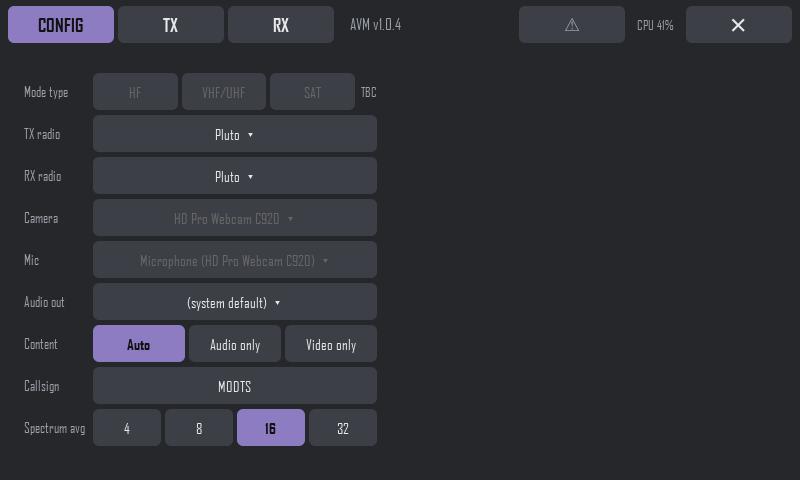
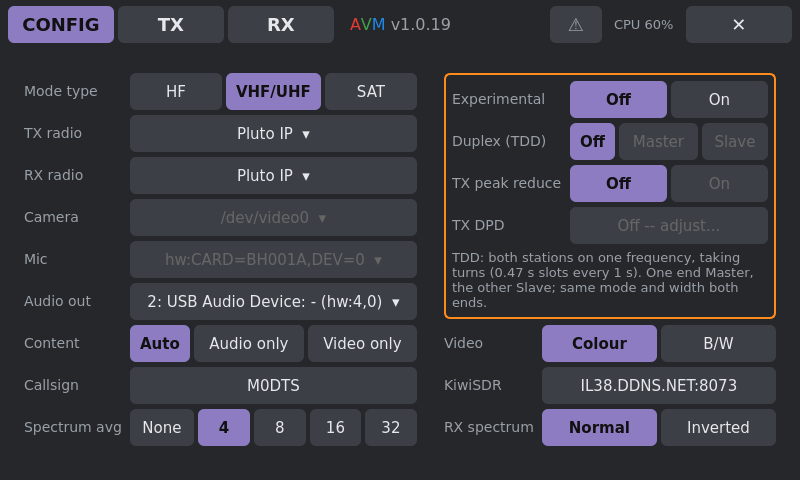
README: new screenshots, current settings described, install section first

diff --git a/README.md b/README.md
@@ -56,157 +56,6 @@ with LNB drift), but it isn't what it's designed for. That said, we're radio
 amateurs and we're allowed to experiment! A single-carrier satellite mode
 may be added later.
 
-## The screens
-
-The tabs along the top switch between **CONFIG**, **TX** and **RX**. TX and
-RX both run at once; the tabs only change what you see. The title bar also
-shows the version, the ⚠ errors list, CPU use and **✕** to quit.
-
-### Config
-
-![AVM config page](docs/config.png)
-
-The set-up choices, which rarely change once a station is running:
-
-1. **Mode type:** HF, VHF/UHF or SAT. Not available yet (TBC).
-2. **TX radio:** Pluto or LimeSDR. A LimeSDR also gets an antenna-port button
-   (Auto, BAND1 or BAND2); on a LimeSDR Mini, try the other band if there's
-   no RF output.
-3. **RX radio:** Pluto, LimeSDR, RTL-SDR, Airspy or SDRplay, from the radios connected now. A
-   Pluto shows how it's connected (**USB** or **IP**), and AVM uses the one
-   you pick. An RTL-SDR also gets a **PPM** setting to correct its crystal,
-   and a LimeSDR a port button (Auto, LNAL, LNAW or LNAH).
-4. **Camera** and **Mic:** the capture devices (when TX's source is "Camera +
-   mic").
-5. **Audio out:** where received audio plays.
-6. **Content:** what TX sends. **Auto** sends video whenever the link has room
-   for it, otherwise audio only; **Audio only** and **Video only** force it.
-7. **Callsign:** your callsign or a short message, sent with the picture.
-8. **Spectrum avg:** how many measurements the RX spectrum averages (4, 8,
-   16 or 32): higher is smoother, lower reacts faster. Applies live.
-
-Changing any of these except Spectrum avg while transmitting or receiving
-turns that tab's button to **RESTART TO APPLY**. Settings are saved as you
-go.
-
-### Transmit
-
-![AVM transmit page](docs/tx.png)
-
-1. **Preview:** exactly what's being sent (here the built-in test pattern).
-   The first start on a new machine shows "Preparing video codec..." here
-   instead, while the codec compiles.
-2. **Rates:** video and audio bitrates, the link capacity, resolution and
-   frame rate, the radio, and fragments sent.
-3. **Source and resolution:** camera and mic, or the test pattern. Video sizes
-   go from 192×112 up to 384×224.
-4. **Audio:** Codec2 (3.2 kbps, leaves more room for video) or Opus (better
-   quality).
-5. **FPS:** video frame rate.
-6. **Freq:** the transmit frequency.
-7. **TX gain:** output level. It changes live while on air.
-8. **Mode, kHz and Modul.:** how the signal is built. A–D are robust
-   DRM-style modes, and VU is for VHF/UHF mobile and tropo. Widths go from
-   20 to 250 kHz, with QPSK (robust) or 16QAM (faster). Narrow widths that a
-   mode can't use are greyed out.
-9. **TX button:** start and stop transmitting. It checks the radio is
-   connected first, and shows **RESTART TO APPLY** if you change a setting
-   that needs a restart.
-
-### Receive
-
-![AVM receive page](docs/rx.png)
-
-1. **Station:** the received callsign or message. It's shown with \*stars\*
-   until it has been received intact.
-2. **Video:** the received picture; tap it for full screen. A receiver
-   tuning in mid-transmission sees the picture fill in as a mosaic within a
-   few seconds.
-3. **Lock lamps and status line:**
-   - **Header** and **Frame** lamps, over the last 2 seconds: **green** when
-     every fragment's header (or whole frame) decoded, **orange** when some
-     did, **red** when none did.
-   - **MER:** signal quality in dB; higher is better.
-   - **CFO:** how far the transmitter is off frequency.
-   - **fps:** received frame rate.
-   - **Q:** video frames queued for display.
-4. **Spectrum:** the live received band. Here it's a real mode VU, 80 kHz
-   signal. The small notch in the middle is deliberate (an empty centre
-   carrier), and it's handy for tuning. The **tuning indicator** behind the
-   trace shows where the signal should sit for the selected mode and width:
-   - **light blue band:** the signal's width, with a dashed centre line;
-   - **green zones at each edge:** how far the signal can drift (the
-     frequency-offset pull-in) and still lock without losing sensitivity.
-     Tune so the signal's edges sit inside them.
-5. **Freq and Offset:** the receive frequency, and a **−/+ offset** in 1 kHz
-   steps (±100 kHz). The offset applies live, to pull an off-frequency
-   signal (e.g. a drifting LNB on a satellite path) back into the green
-   zones.
-6. **Mode, kHz and Modul.:** these must match the transmitter.
-7. **RX gain:** changes live.
-8. **Ref level:** the spectrum's top line, or **Auto**.
-9. **RX button:** start and stop receiving. It checks the radio is
-   connected first, and says so if it isn't.
-
-## How it works
-
-```
-camera ─► wavelet video codec ─┐                                  ┌─► video decoder ─► screen
-                               ├─► framer ─► OFDM modem ─► SDR ~~► SDR ─► OFDM demodulator ─► deframer ─┤
-mic ────► Opus / Codec2 ───────┘   (callsign, A/V sync)                                  └─► audio decoder ─► speaker
-```
-
-- **OFDM modem:** many closely spaced carriers, with pilots for tracking,
-  LDPC error correction, and a preamble so a receiver can lock on at any
-  time. Its timings are modelled on DRM's robustness modes, plus the
-  VHF/UHF mode VU.
-- **Video codec:** a wavelet codec written for AVM. It produces a fixed
-  number of bytes per frame, so it fits the radio's capacity exactly, and it
-  gets blurrier, not blocky, as the rate drops. A rolling refresh lets late
-  joiners and lost data recover within a few seconds.
-- **Receiver:** plays video and audio in step, at low latency. It skips ahead
-  instead of falling behind if it's ever delayed.
-
-## What you need
-
-- **A computer:** see [Computers](#computers) below.
-- **A radio (SDR):** see [Radios](#radios) below. Add filters and an
-  amplifier as needed for your band.
-- **A camera and microphone:** any USB webcam works (e.g. a Logitech C920,
-  whose focus AVM can control). The test pattern needs no camera.
-- **A licence to transmit:** see the note under [Use](#use).
-
-## Supported hardware
-
-AVM is an experimental release: "tested" below means it has been used with
-AVM, not that every setting has been tried on it.
-
-### Computers
-
-| Computer | Notes |
-|---|---|
-| **Raspberry Pi 4** with 64-bit Raspberry Pi OS (Trixie, desktop) | What AVM is developed and tested on. Best with the 7" touch screen. |
-
-### Radios
-
-| Radio | TX | RX | Tuning range | Status | Notes |
-|---|:-:|:-:|---|---|---|
-| **ADALM-Pluto** | ✓ | ✓ | 70-6000 MHz* | Tested | TX and RX at once from one Pluto. On USB, or on the network at 192.168.2.1 / pluto.local. |
-| **LibreSDR** (and other boards running Pluto firmware) | ✓ | ✓ | 70-6000 MHz | Untested | Works as a Pluto. On Ethernet, AVM checks both 192.168.2.1 and 192.168.1.10 (LibreSDR's default) and uses whichever answers. |
-| **LimeSDR-USB / LimeSDR Mini** | ✓ | ✓ | 0.1-3800 MHz | Tested | TX **or** RX, not both at once from one Lime (it can only be opened by one program). To do both, add a second radio for RX, e.g. an RTL-SDR. AVM says "LimeSDR busy" otherwise. Antenna port selectable. |
-| **RTL-SDR dongle** (RTL2832U + R820T) | | ✓ | 24-1766 MHz | Tested | Cheap RX. PPM setting to correct its crystal. |
-| **Airspy R2 / Mini** | | ✓ | 24-1800 MHz | Found by AVM, receive not yet tested | Samples at 2.5 MS/s (R2) or 3 MS/s (Mini): more CPU on a Pi than an RTL-SDR. |
-| **Airspy HF+ Discovery / Dual** | | ✓ | 0.01-31 and 60-260 MHz | Untested | Runs its own AGC: AVM's RX gain setting doesn't apply. |
-| **SDRplay RSP1, RSP1A, RSP1B, RSP2, RSPduo, RSPdx, RSPdx-R2** | | ✓ | 0.001-2000 MHz | RSPduo found and opened by AVM, receive not yet tested | Needs SDRplay's API, which you download yourself: see [SDRplay RSPs](#sdrplay-rsps). Runs its own AGC. RSPduo used as a single tuner. |
-
-\* 70-6000 MHz with the common Pluto firmware change; a stock Pluto covers
-325-3800 MHz.
-
-Radios are listed in AVM by what's plugged in now; a radio that isn't
-connected isn't offered. AVM checks the chosen radio is there before TX or RX
-starts, and pauses TX/RX if a USB radio disappears, carrying on when it's
-back.
-
 ## Install
 
 AVM runs on a **Raspberry Pi 4**. If you already have a Portsdown DATV
@@ -320,6 +169,177 @@ when the file is newer than what's installed, and rebuilds the driver.
   RSP. If not, check SDRplay's service is running with
   `systemctl status sdrplay`, and restart it with
   `sudo systemctl restart sdrplay`.
+
+## The screens
+
+The tabs along the top switch between **CONFIG**, **TX** and **RX**. TX and
+RX both run at once; the tabs only change what you see. The title bar also
+shows the version, the ⚠ errors list, CPU use and **✕** to quit.
+
+### Config
+
+![AVM config page](docs/config.png)
+
+The set-up choices, which rarely change once a station is running:
+
+1. **Mode type:** HF, VHF/UHF or SAT. This picks which modes, widths and
+   modulations the TX and RX pages offer, and hides the rest:
+   - **HF:** modes A–D and SH, 10 to 40 kHz;
+   - **VHF/UHF:** mode VU, 80 to 250 kHz;
+   - **SAT:** mode S, 10 to 40 kHz.
+2. **TX radio:** Pluto or LimeSDR. A LimeSDR also gets an antenna-port button
+   (Auto, BAND1 or BAND2); on a LimeSDR Mini, try the other band if there's
+   no RF output.
+3. **RX radio:** Pluto, LimeSDR, RTL-SDR, Airspy, SDRplay or a KiwiSDR on
+   the internet, from the radios connected now. A
+   Pluto shows how it's connected (**USB** or **IP**), and AVM uses the one
+   you pick. An RTL-SDR also gets a **PPM** setting to correct its crystal,
+   and a LimeSDR a port button (Auto, LNAL, LNAW or LNAH).
+4. **Camera** and **Mic:** the capture devices (when TX's source is "Camera +
+   mic").
+5. **Audio out:** where received audio plays.
+6. **Content:** what TX sends. **Auto** sends video whenever the link has room
+   for it, otherwise audio only; **Audio only** and **Video only** force it.
+7. **Callsign:** your callsign or a short message, sent with the picture.
+8. **Spectrum avg:** how many measurements the RX spectrum averages (none,
+   4, 8, 16 or 32): higher is smoother, lower reacts faster. Applies live.
+9. **Experimental** (orange box): off by default. Turning it on unlocks
+   **TX peak reduce** and **TX DPD** (predistortion, to clean up an
+   amplifier's splatter, set in its own popup). Both can badly distort your
+   signal if set wrong, so only use them when you can watch your
+   transmission on another receiver.
+10. **Video:** send in colour, or black and white, which leaves the
+    bits for a little more picture detail.
+11. **KiwiSDR:** the address of the KiwiSDR to receive with, when it's the
+    RX radio.
+12. **RX spectrum:** **Inverted** if your receive chain flips the spectrum
+    (e.g. some converters).
+
+Changing any of these except Spectrum avg while transmitting or receiving
+turns that tab's button to **RESTART TO APPLY**. Settings are saved as you
+go.
+
+### Transmit
+
+![AVM transmit page](docs/tx.png)
+
+1. **Preview:** exactly what's being sent (here the built-in test pattern).
+   The first start on a new machine shows "Preparing video codec..." here
+   instead, while the codec compiles.
+2. **Rates:** video and audio bitrates, the link capacity, resolution and
+   frame rate, the radio, and fragments sent.
+3. **Source and resolution:** camera and mic, or the test pattern. Video sizes
+   go from 192×112 up to 384×224.
+4. **Audio:** Codec2 (3.2 kbps, leaves more room for video) or Opus (better
+   quality).
+5. **FPS:** video frame rate.
+6. **Freq:** the transmit frequency.
+7. **TX gain:** output level. It changes live while on air.
+8. **Mode, kHz and Modul.:** how the signal is built; the choices depend on
+   the mode type set in Config.
+   - **A–D** are robust DRM-style modes for HF, **SH** is a single-carrier
+     mode for HF, **VU** is for VHF/UHF mobile and tropo, and **S** is a
+     single-carrier mode for satellite and other steady paths.
+   - Widths go from 10 to 250 kHz.
+   - Modulation: QPSK (most robust), 8PSK (S and SH only), 16QAM or 32QAM
+     (fastest, needs the strongest signal).
+   - Choices a mode can't use are greyed out.
+9. **TX button:** start and stop transmitting. It checks the radio is
+   connected first, and shows **RESTART TO APPLY** if you change a setting
+   that needs a restart.
+
+### Receive
+
+![AVM receive page](docs/rx.png)
+
+1. **Station:** the received callsign or message. It's shown with \*stars\*
+   until it has been received intact.
+2. **Video:** the received picture; tap it for full screen. A receiver
+   tuning in mid-transmission sees the picture fill in as a mosaic within a
+   few seconds.
+3. **Lock lamps and status line:**
+   - **Header** and **Frame** lamps, over the last 2 seconds: **green** when
+     every fragment's header (or whole frame) decoded, **orange** when some
+     did, **red** when none did.
+   - **MER:** signal quality in dB; higher is better.
+   - **CFO:** how far the transmitter is off frequency.
+   - **fps:** received frame rate.
+   - **Q:** video frames queued for display.
+4. **Spectrum:** the live received band. Here it's a real mode VU, 80 kHz
+   signal. The **tuning indicator** behind the
+   trace shows where the signal should sit for the selected mode and width:
+   - **light blue band:** the signal's width, with a dashed centre line;
+   - **green zones at each edge:** how far the signal can drift (the
+     frequency-offset pull-in) and still lock without losing sensitivity.
+     Tune so the signal's edges sit inside them.
+5. **Freq and Offset:** the receive frequency, and a **−/+ offset** in 1 kHz
+   steps (±100 kHz). The offset applies live, to pull an off-frequency
+   signal (e.g. a drifting LNB on a satellite path) back into the green
+   zones.
+6. **Mode, kHz and Modul.:** these must match the transmitter.
+7. **RX gain:** changes live.
+8. **Ref level:** the spectrum's top line, or **Auto**.
+9. **RX button:** start and stop receiving. It checks the radio is
+   connected first, and says so if it isn't.
+
+## How it works
+
+```
+camera ─► wavelet video codec ─┐                                  ┌─► video decoder ─► screen
+                               ├─► framer ─► OFDM modem ─► SDR ~~► SDR ─► OFDM demodulator ─► deframer ─┤
+mic ────► Opus / Codec2 ───────┘   (callsign, A/V sync)                                  └─► audio decoder ─► speaker
+```
+
+- **OFDM modem:** many closely spaced carriers, with pilots for tracking,
+  LDPC error correction, and a preamble so a receiver can lock on at any
+  time. Its timings are modelled on DRM's robustness modes, plus the
+  VHF/UHF mode VU.
+- **Video codec:** a wavelet codec written for AVM. It produces a fixed
+  number of bytes per frame, so it fits the radio's capacity exactly, and it
+  gets blurrier, not blocky, as the rate drops. A rolling refresh lets late
+  joiners and lost data recover within a few seconds.
+- **Receiver:** plays video and audio in step, at low latency. It skips ahead
+  instead of falling behind if it's ever delayed.
+
+## What you need
+
+- **A computer:** see [Computers](#computers) below.
+- **A radio (SDR):** see [Radios](#radios) below. Add filters and an
+  amplifier as needed for your band.
+- **A camera and microphone:** any USB webcam works (e.g. a Logitech C920,
+  whose focus AVM can control). The test pattern needs no camera.
+- **A licence to transmit:** see the note under [Use](#use).
+
+## Supported hardware
+
+AVM is an experimental release: "tested" below means it has been used with
+AVM, not that every setting has been tried on it.
+
+### Computers
+
+| Computer | Notes |
+|---|---|
+| **Raspberry Pi 4** with 64-bit Raspberry Pi OS (Trixie, desktop) | What AVM is developed and tested on. Best with the 7" touch screen. |
+
+### Radios
+
+| Radio | TX | RX | Tuning range | Status | Notes |
+|---|:-:|:-:|---|---|---|
+| **ADALM-Pluto** | ✓ | ✓ | 70-6000 MHz* | Tested | TX and RX at once from one Pluto. On USB, or on the network at 192.168.2.1 / pluto.local. |
+| **LibreSDR** (and other boards running Pluto firmware) | ✓ | ✓ | 70-6000 MHz | Untested | Works as a Pluto. On Ethernet, AVM checks both 192.168.2.1 and 192.168.1.10 (LibreSDR's default) and uses whichever answers. |
+| **LimeSDR-USB / LimeSDR Mini** | ✓ | ✓ | 0.1-3800 MHz | Tested | TX **or** RX, not both at once from one Lime (it can only be opened by one program). To do both, add a second radio for RX, e.g. an RTL-SDR. AVM says "LimeSDR busy" otherwise. Antenna port selectable. |
+| **RTL-SDR dongle** (RTL2832U + R820T) | | ✓ | 24-1766 MHz | Tested | Cheap RX. PPM setting to correct its crystal. |
+| **Airspy R2 / Mini** | | ✓ | 24-1800 MHz | Found by AVM, receive not yet tested | Samples at 2.5 MS/s (R2) or 3 MS/s (Mini): more CPU on a Pi than an RTL-SDR. |
+| **Airspy HF+ Discovery / Dual** | | ✓ | 0.01-31 and 60-260 MHz | Untested | Runs its own AGC: AVM's RX gain setting doesn't apply. |
+| **SDRplay RSP1, RSP1A, RSP1B, RSP2, RSPduo, RSPdx, RSPdx-R2** | | ✓ | 0.001-2000 MHz | RSPduo found and opened by AVM, receive not yet tested | Needs SDRplay's API, which you download yourself: see [SDRplay RSPs](#sdrplay-rsps). Runs its own AGC. RSPduo used as a single tuner. |
+
+\* 70-6000 MHz with the common Pluto firmware change; a stock Pluto covers
+325-3800 MHz.
+
+Radios are listed in AVM by what's plugged in now; a radio that isn't
+connected isn't offered. AVM checks the chosen radio is there before TX or RX
+starts, and pauses TX/RX if a USB radio disappears, carrying on when it's
+back.
 
 ## Use
 
